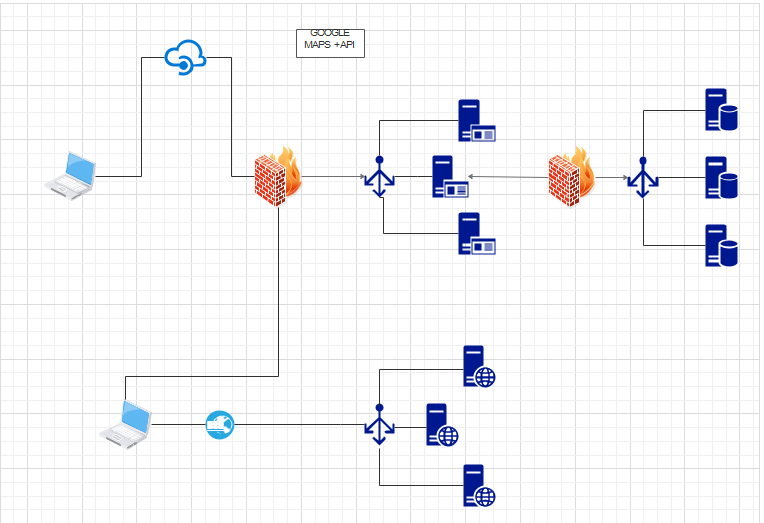
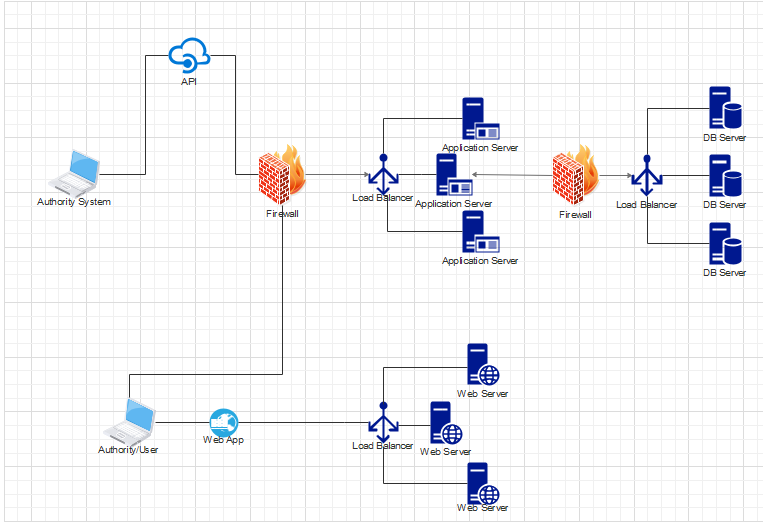
Added some acronymous, fixed the network architecture and added some details to network architecture

diff --git a/DD/Files/architecturaldesign.tex b/DD/Files/architecturaldesign.tex
@@ -11,12 +11,30 @@ The communication between the three levels is asyncronous, so none will wait the
 This structure grants speed because the team can improve every single layer without having impact on the other tiers.
 It improves the efficency because every member of the team can focus on his core function.
 \begin{figure}
-	\centering
-	\includegraphics[width=0.98\linewidth, height=0.55\textheight]{Images/networkarchitecture}
-	\caption[Network Architecture]{}
-	\label{fig:networkarchitecture}
+	
+	\includegraphics[width=0.95\linewidth, height=0.20\textheight]{../DD/Images/architecture}
+	\caption{High‐level
+		system
+		architecture}
+	\label{High‐level
+		system
+		architecture}
 \end{figure}
 \newpage
+\begin{figure}
+	\centering
+	\includegraphics[width=0.98\linewidth, height=0.55\textheight]{Images/networkarchitecture}
+	\caption{Network Architecture}
+	\label{fig:networkarchitecture}
+\end{figure}
+3-tier
+\newpage
+The network architecture illustrates how the 3-tier architecture is applied to SafeStreet. The presentation level include the authory or the user device with the web app that show the front end of the platform. The authority system (is not incorporate in the SafeStreet architecture) represents the software that they use to generate traffic tickets. It recieves the data (type of violation, licenseplate, name, surname etc.) from the API that SafeStreet provides.
+The application tier contains the web server and the application server. The web server provides the HTML page to the authority or to the user and the JavaScript logic. It dose not communicate with the application server because the contents of the web pages will be filled dinamically with the JavaScript calls between the authority/user device and the application server. This is possible because the platform exploit AJAX, so the client send a request to the application server, that recieves it and call the handle function to satisfy it. Once the handle function end, the application server send the response to the web app (JSON). Through the JavaScript logic provided to the Authority/User device, the JSON object could be elaborated and the contents of the pages can be updated.
+The data access level contains the database server, that communicates with the application server. The latter will interrogate the db server to retrieve, update or remove data in the database. 
+The application server is connected to two firewall that will define a DMZ, so the external device can access only to the method inside the DMZ without having the access to all the network. The firewall can guarantee and improve the security of the network and provides more controls on the packets that are moving in the network.
+Every server is connected to a load balancer to distribute the request avoiding slowdowns. They grant better perfomance.
+The end devices exploit the cache of the browser so it grants less request to the different server and in some cases is possible to see data without having an internet connection.
 \subsubsection{Database structure}
 The database will have a structure according to the following one: 
 
@@ -27,18 +45,6 @@ The database will have a structure according to the following one:
 	\label{Database structure}
 \end{figure}
 
-\begin{figure}
-	
-	\includegraphics[width=0.95\linewidth, height=0.20\textheight]{../DD/Images/architecture}
-	\caption{High‐level
-		system
-		architecture}
-	\label{High‐level
-		system
-		architecture}
-\end{figure}
-
-\newpage
 
 \subsection{Component view}
 In order to give a better description of the component of the system, the below class diagram shows how the application is designed.

diff --git a/DD/Files/introduction.tex b/DD/Files/introduction.tex
@@ -41,11 +41,15 @@ The web platform will provide a system that manage the reports of the parking vi
 	\item
 	UX: User Experience
 	\item
-	ANPR: Automatic number-plate recognition, is the portion of the system
-	that is able to recognize the license plate number from the pictures prodived
-	by users.
+	ANPR: Automatic number-plate recognition
 	\item
 	CUU: Code Unique Unitary
+	\item
+	AJAX: Asynchronous JavaScript And XML
+	\item 
+	JSON: JavaScript Object Notation
+	\item
+	DMZ: Demilitarized zone
 	
 \end{itemize}
 
